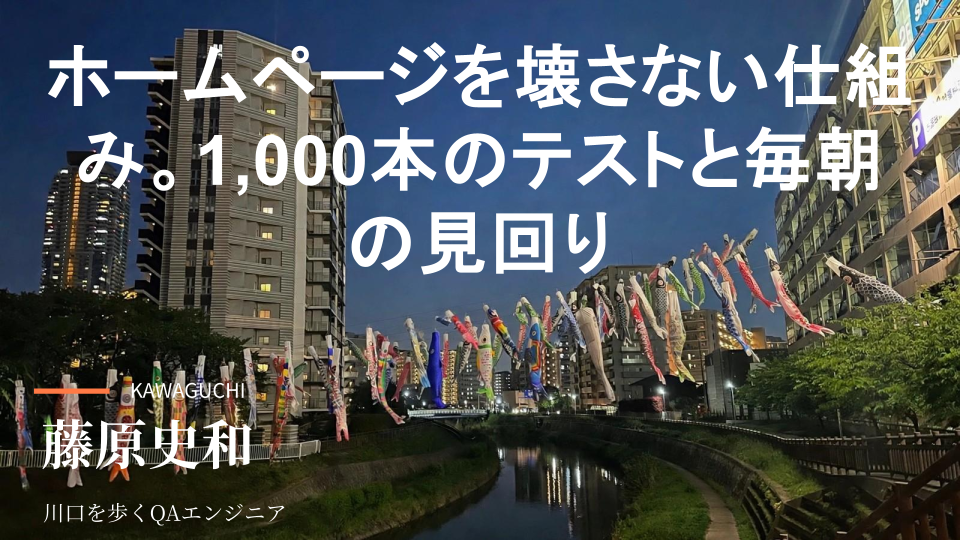
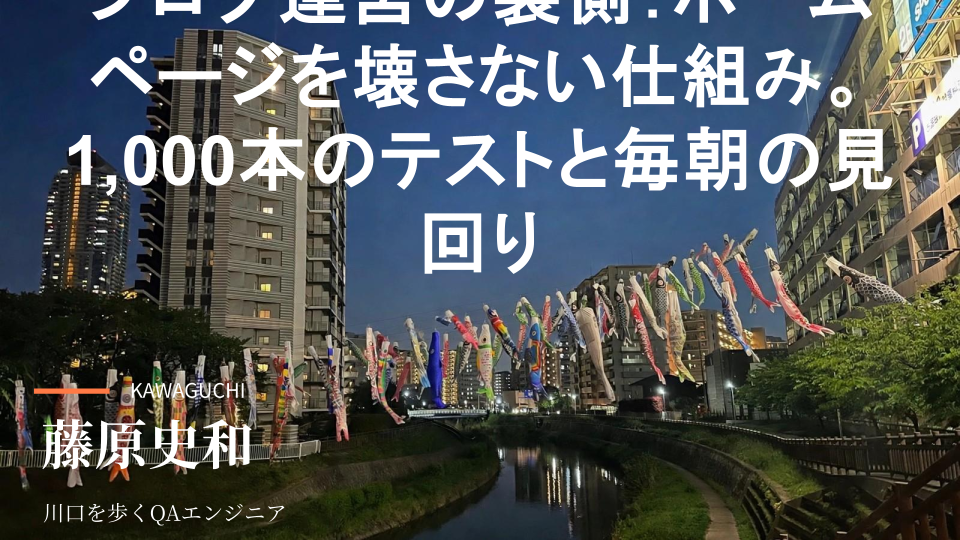
deploy: a1a06f6cc9f0d4ce08a8c35b9ff1bdfc61419ec7

diff --git a/assets/index-DbyyQzb4.js b/assets/index-DbyyQzb4.js
@@ -14,7 +14,7 @@ var El=Object.defineProperty;var Ir=e=>{throw TypeError(e)};var Rl=(e,t,n)=>t in
 * @vue/runtime-dom v3.5.27
 * (c) 2018-present Yuxi (Evan) You and Vue contributors
 * @license MIT
-**/let Ks;const Qr=typeof window<"u"&&window.trustedTypes;if(Qr)try{Ks=Qr.createPolicy("vue",{createHTML:e=>e})}catch{}const Vo=Ks?e=>Ks.createHTML(e):e=>e,wa="http://www.w3.org/2000/svg",ka="http://www.w3.org/1998/Math/MathML",at=typeof document<"u"?document:null,Zr=at&&at.createElement("template"),Ea={insert:(e,t,n)=>{t.insertBefore(e,n||null)},remove:e=>{const t=e.parentNode;t&&t.removeChild(e)},createElement:(e,t,n,s)=>{const r=t==="svg"?at.createElementNS(wa,e):t==="mathml"?at.createElementNS(ka,e):n?at.createElement(e,{is:n}):at.createElement(e);return e==="select"&&s&&s.multiple!=null&&r.setAttribute("multiple",s.multiple),r},createText:e=>at.createTextNode(e),createComment:e=>at.createComment(e),setText:(e,t)=>{e.nodeValue=t},setElementText:(e,t)=>{e.textContent=t},parentNode:e=>e.parentNode,nextSibling:e=>e.nextSibling,querySelector:e=>at.querySelector(e),setScopeId(e,t){e.setAttribute(t,"")},insertStaticContent(e,t,n,s,r,i){const o=n?n.previousSibling:t.lastChild;if(r&&(r===i||r.nextSibling))for(;t.insertBefore(r.cloneNode(!0),n),!(r===i||!(r=r.nextSibling)););else{Zr.innerHTML=Vo(s==="svg"?`<svg>${e}</svg>`:s==="mathml"?`<math>${e}</math>`:e);const l=Zr.content;if(s==="svg"||s==="mathml"){const c=l.firstChild;for(;c.firstChild;)l.appendChild(c.firstChild);l.removeChild(c)}t.insertBefore(l,n)}return[o?o.nextSibling:t.firstChild,n?n.previousSibling:t.lastChild]}},Ra=Symbol("_vtc");function Aa(e,t,n){const s=e[Ra];s&&(t=(t?[t,...s]:[...s]).join(" ")),t==null?e.removeAttribute("class"):n?e.setAttribute("class",t):e.className=t}const Jr=Symbol("_vod"),Sa=Symbol("_vsh"),Ta=Symbol(""),Ca=/(?:^|;)\s*display\s*:/;function Ia(e,t,n){const s=e.style,r=ge(n);let i=!1;if(n&&!r){if(t)if(ge(t))for(const o of t.split(";")){const l=o.slice(0,o.indexOf(":")).trim();n[l]==null&&Hn(s,l,"")}else for(const o in t)n[o]==null&&Hn(s,o,"");for(const o in n)o==="display"&&(i=!0),Hn(s,o,n[o])}else if(r){if(t!==n){const o=s[Ta];o&&(n+=";"+o),s.cssText=n,i=Ca.test(n)}}else t&&e.removeAttribute("style");Jr in e&&(e[Jr]=i?s.display:"",e[Sa]&&(s.display="none"))}const Yr=/\s*!important$/;function Hn(e,t,n){if(H(n))n.forEach(s=>Hn(e,t,s));else if(n==null&&(n=""),t.startsWith("--"))e.setProperty(t,n);else{const s=Oa(e,t);Yr.test(n)?e.setProperty(Mt(s),n.replace(Yr,""),"important"):e[s]=n}}const Xr=["Webkit","Moz","ms"],Es={};function Oa(e,t){const n=Es[t];if(n)return n;let s=ze(t);if(s!=="filter"&&s in e)return Es[t]=s;s=ts(s);for(let r=0;r<Xr.length;r++){const i=Xr[r]+s;if(i in e)return Es[t]=i}return t}const ei="http://www.w3.org/1999/xlink";function ti(e,t,n,s,r,i=Ml(t)){s&&t.startsWith("xlink:")?n==null?e.removeAttributeNS(ei,t.slice(6,t.length)):e.setAttributeNS(ei,t,n):n==null||i&&!Ui(n)?e.removeAttribute(t):e.setAttribute(t,i?"":At(n)?String(n):n)}function ni(e,t,n,s,r){if(t==="innerHTML"||t==="textContent"){n!=null&&(e[t]=t==="innerHTML"?Vo(n):n);return}const i=e.tagName;if(t==="value"&&i!=="PROGRESS"&&!i.includes("-")){const l=i==="OPTION"?e.getAttribute("value")||"":e.value,c=n==null?e.type==="checkbox"?"on":"":String(n);(l!==c||!("_value"in e))&&(e.value=c),n==null&&e.removeAttribute(t),e._value=n;return}let o=!1;if(n===""||n==null){const l=typeof e[t];l==="boolean"?n=Ui(n):n==null&&l==="string"?(n="",o=!0):l==="number"&&(n=0,o=!0)}try{e[t]=n}catch{}o&&e.removeAttribute(r||t)}function Ut(e,t,n,s){e.addEventListener(t,n,s)}function Pa(e,t,n,s){e.removeEventListener(t,n,s)}const si=Symbol("_vei");function $a(e,t,n,s,r=null){const i=e[si]||(e[si]={}),o=i[t];if(s&&o)o.value=s;else{const[l,c]=Na(t);if(s){const f=i[t]=Da(s,r);Ut(e,l,f,c)}else o&&(Pa(e,l,o,c),i[t]=void 0)}}const ri=/(?:Once|Passive|Capture)$/;function Na(e){let t;if(ri.test(e)){t={};let s;for(;s=e.match(ri);)e=e.slice(0,e.length-s[0].length),t[s[0].toLowerCase()]=!0}return[e[2]===":"?e.slice(3):Mt(e.slice(2)),t]}let Rs=0;const La=Promise.resolve(),Ma=()=>Rs||(La.then(()=>Rs=0),Rs=Date.now());function Da(e,t){const n=s=>{if(!s._vts)s._vts=Date.now();else if(s._vts<=n.attached)return;rt(Ba(s,n.value),t,5,[s])};return n.value=e,n.attached=Ma(),n}function Ba(e,t){if(H(t)){const n=e.stopImmediatePropagation;return e.stopImmediatePropagation=()=>{n.call(e),e._stopped=!0},t.map(s=>r=>!r._stopped&&s&&s(r))}else return t}const ii=e=>e.charCodeAt(0)===111&&e.charCodeAt(1)===110&&e.charCodeAt(2)>96&&e.charCodeAt(2)<123,Fa=(e,t,n,s,r,i)=>{const o=r==="svg";t==="class"?Aa(e,s,o):t==="style"?Ia(e,n,s):Yn(t)?er(t)||$a(e,t,n,s,i):(t[0]==="."?(t=t.slice(1),!0):t[0]==="^"?(t=t.slice(1),!1):Ha(e,t,s,o))?(ni(e,t,s),!e.tagName.includes("-")&&(t==="value"||t==="checked"||t==="selected")&&ti(e,t,s,o,i,t!=="value")):e._isVueCE&&(/[A-Z]/.test(t)||!ge(s))?ni(e,ze(t),s,i,t):(t==="true-value"?e._trueValue=s:t==="false-value"&&(e._falseValue=s),ti(e,t,s,o))};function Ha(e,t,n,s){if(s)return!!(t==="innerHTML"||t==="textContent"||t in e&&ii(t)&&z(n));if(t==="spellcheck"||t==="draggable"||t==="translate"||t==="autocorrect"||t==="sandbox"&&e.tagName==="IFRAME"||t==="form"||t==="list"&&e.tagName==="INPUT"||t==="type"&&e.tagName==="TEXTAREA")return!1;if(t==="width"||t==="height"){const r=e.tagName;if(r==="IMG"||r==="VIDEO"||r==="CANVAS"||r==="SOURCE")return!1}return ii(t)&&ge(n)?!1:t in e}const oi=e=>{const t=e.props["onUpdate:modelValue"]||!1;return H(t)?n=>Mn(t,n):t};function ja(e){e.target.composing=!0}function li(e){const t=e.target;t.composing&&(t.composing=!1,t.dispatchEvent(new Event("input")))}const As=Symbol("_assign");function ci(e,t,n){return t&&(e=e.trim()),n&&(e=sr(e)),e}const za={created(e,{modifiers:{lazy:t,trim:n,number:s}},r){e[As]=oi(r);const i=s||r.props&&r.props.type==="number";Ut(e,t?"change":"input",o=>{o.target.composing||e[As](ci(e.value,n,i))}),(n||i)&&Ut(e,"change",()=>{e.value=ci(e.value,n,i)}),t||(Ut(e,"compositionstart",ja),Ut(e,"compositionend",li),Ut(e,"change",li))},mounted(e,{value:t}){e.value=t??""},beforeUpdate(e,{value:t,oldValue:n,modifiers:{lazy:s,trim:r,number:i}},o){if(e[As]=oi(o),e.composing)return;const l=(i||e.type==="number")&&!/^0\d/.test(e.value)?sr(e.value):e.value,c=t??"";l!==c&&(document.activeElement===e&&e.type!=="range"&&(s&&t===n||r&&e.value.trim()===c)||(e.value=c))}},Ua=["ctrl","shift","alt","meta"],Va={stop:e=>e.stopPropagation(),prevent:e=>e.preventDefault(),self:e=>e.target!==e.currentTarget,ctrl:e=>!e.ctrlKey,shift:e=>!e.shiftKey,alt:e=>!e.altKey,meta:e=>!e.metaKey,left:e=>"button"in e&&e.button!==0,middle:e=>"button"in e&&e.button!==1,right:e=>"button"in e&&e.button!==2,exact:(e,t)=>Ua.some(n=>e[`${n}Key`]&&!t.includes(n))},Ga=(e,t)=>{const n=e._withMods||(e._withMods={}),s=t.join(".");return n[s]||(n[s]=(r,...i)=>{for(let o=0;o<t.length;o++){const l=Va[t[o]];if(l&&l(r,t))return}return e(r,...i)})},Ka=xe({patchProp:Fa},Ea);let ai;function Wa(){return ai||(ai=na(Ka))}const qa=(...e)=>{const t=Wa().createApp(...e),{mount:n}=t;return t.mount=s=>{const r=Za(s);if(!r)return;const i=t._component;!z(i)&&!i.render&&!i.template&&(i.template=r.innerHTML),r.nodeType===1&&(r.textContent="");const o=n(r,!1,Qa(r));return r instanceof Element&&(r.removeAttribute("v-cloak"),r.setAttribute("data-v-app","")),o},t};function Qa(e){if(e instanceof SVGElement)return"svg";if(typeof MathMLElement=="function"&&e instanceof MathMLElement)return"mathml"}function Za(e){return ge(e)?document.querySelector(e):e}const Ja={class:"title-search"},Ya={key:0,class:"title-search-results"},Xa={key:0,class:"title-search-status"},eu={key:1,class:"title-search-status"},tu={key:0,class:"title-search-empty"},nu=10,ui={__name:"TitleSearch",props:{articles:{type:Array,default:()=>[]},state:{type:String,default:"ready"}},setup(e){const t=e,n=Se(""),s=he(()=>{const r=n.value.trim().toLowerCase();return r?t.articles.filter(i=>i.title.toLowerCase().includes(r)).slice(0,nu):[]});return(r,i)=>{const o=wn("router-link");return U(),oe("div",Ja,[dc(j("input",{"onUpdate:modelValue":i[0]||(i[0]=l=>n.value=l),type:"search",class:"title-search-input",placeholder:"記事タイトルで探す","aria-label":"記事タイトルで探す"},null,512),[[za,n.value]]),n.value.trim()?(U(),oe("ul",Ya,[e.state==="loading"?(U(),oe("li",Xa,[...i[2]||(i[2]=[j("span",{class:"title-search-spinner","aria-hidden":"true"},null,-1),Et("検索中… ",-1)])])):e.state==="failed"?(U(),oe("li",eu,"読み込みに失敗しました。再読み込みしてください")):(U(),oe(we,{key:2},[(U(!0),oe(we,null,dr(s.value,l=>(U(),oe("li",{key:l.id,class:"title-search-item"},[pe(o,{to:`/${l.id}`,onClick:i[1]||(i[1]=c=>n.value="")},{default:Zt(()=>[Et(Ge(l.title),1)]),_:2},1032,["to"])]))),128)),s.value.length===0?(U(),oe("li",tu,"該当する記事がありません")):$e("",!0)],64))])):$e("",!0)])}}},fs="https://script.google.com/macros/s/AKfycbydcnw4yt5K8lz8Wf0PCbG6Q9yD3jf1W2lsGucOor2KII7duJr7qevcMiwNHJTe8GZH/exec",Go=`${fs}?o=rss`,Ko={BASE_URL:"/blog/",DEV:!1,MODE:"production",PROD:!0,SSR:!1};function hs(e=Ko){return(e==null?void 0:e.VITE_STAGING)==="1"}const su=[["トップ","/staging/"],["ブログ","/blog/staging/"],["持ち物","/list-of-stuff/staging/"],["ツイート","/tweet/staging/"],["アラーム","/alarm/staging/"],["健康","/health/staging/"],["資産","/asset/staging/"]];function ru(e=Ko){const t=(e==null?void 0:e.BASE_URL)??"/";return t.endsWith("staging/")?t.slice(0,-8):t}function iu(e=document){const t=e.createElement("div");t.setAttribute("style","background:#f7e9e2;color:#8f2a12;text-align:center;font-size:12px;line-height:2.2;letter-spacing:.06em;");const n=e.createElement("span");n.textContent="STAGING ― これはステージング環境です（本番ではありません）｜ ",t.appendChild(n),su.forEach(([r,i],o)=>{o>0&&t.appendChild(e.createTextNode(" ・ "));const l=e.createElement("a");l.href=i,l.textContent=r,l.setAttribute("style","color:#8f2a12;"),t.appendChild(l)}),t.appendChild(e.createTextNode("｜ "));const s=e.createElement("a");return s.href=ru(),s.textContent="本番",s.setAttribute("style","color:#c62828;font-weight:700;"),t.appendChild(s),e.body.prepend(t),t}const ps=e=>hs()?fetch(e,{cache:"no-store"}):fetch(e),ou=async()=>{const e=await ps(Go);if(!e.ok)throw new Error("RSSの取得に失敗しました。");return await e.text()},Ss=async e=>{const t=await ps(`${fs}?id=${e}`);if(!t.ok)throw new Error("記事の取得に失敗しました。");return await t.json()},fi=e=>{if(!e||!Array.isArray(e.ids))return[];const t=e.titles&&typeof e.titles=="object"&&!Array.isArray(e.titles)?e.titles:{},n={};return Array.isArray(e.article_cache)&&e.article_cache.forEach(s=>{s!=null&&s.id&&(s!=null&&s.title)&&(n[s.id]=s.title)}),e.ids.map(s=>({id:s,title:t[s]||n[s]||""})).filter(s=>s.title)},Wo=async()=>{var n;const e=await ps(`${fs}?o=titles`);if(!e.ok)throw new Error("記事タイトル一覧の取得に失敗しました。");const t=await e.json();if(!((n=t==null?void 0:t.ids)!=null&&n.length))throw new Error("最新記事が見つかりませんでした。");return t},Ts=async()=>{var n;const e=await ps(fs);if(!e.ok)throw new Error("記事一覧の取得に失敗しました。");const t=await e.json();if(!((n=t==null?void 0:t.ids)!=null&&n.length))throw new Error("最新記事が見つかりませんでした。");return t},qo=hs(),Qo=hs()?"blog:list-cache:v1:staging":"blog:list-cache:v1",Zo=e=>!!e&&typeof e=="object"&&!Array.isArray(e),Jo=()=>{if(qo)return null;try{const e=localStorage.getItem(Qo);if(!e)return null;const t=JSON.parse(e);return!t||!Array.isArray(t.ids)||t.ids.length===0?null:{ids:t.ids,titles:Zo(t.titles)?t.titles:{},article_cache:Array.isArray(t.article_cache)?t.article_cache:[]}}catch{return null}},Cs=e=>{if(!qo)try{localStorage.setItem(Qo,JSON.stringify({ids:e.ids,titles:Zo(e.titles)?e.titles:{},article_cache:Array.isArray(e.article_cache)?e.article_cache:[]}))}catch{}},lu={class:"site-nav"},cu={class:"nav-search"},au={class:"header hero"},uu={key:1,class:"hero-inner"},fu={class:"hero-search"},hu={class:"layout"},pu={class:"site-footer"},du={class:"copy"},gu={__name:"App",setup(e){const t=new Date().getFullYear(),n=Se(""),s=Se([]),r=Se("loading");return ls(async()=>{var o,l;const i=Jo();(o=i==null?void 0:i.ids)!=null&&o.length&&(n.value=`/${i.ids[0]}`,s.value=fi(i),s.value.length&&(r.value="ready"));try{const c=await Wo();(l=c==null?void 0:c.ids)!=null&&l[0]&&(n.value=`/${c.ids[0]}`),s.value=fi(c),r.value="ready"}catch{s.value.length||(r.value="failed")}}),(i,o)=>{const l=wn("router-link"),c=wn("router-view");return U(),oe("div",null,[j("nav",lu,[o[0]||(o[0]=Kr('<a class="brand" href="https://freddiefujiwara.com/">藤原史和｜川口を歩くQAエンジニア</a><ul><li><a href="https://freddiefujiwara.com/">トップ</a></li><li><a href="https://freddiefujiwara.com/#about">プロフィール</a></li><li><a href="https://freddiefujiwara.com/#activity">活動・発信</a></li><li><a href="https://freddiefujiwara.com/#contact">情報交換</a></li><li><a href="/blog/" class="active" aria-current="page">ブログ</a></li><li><a href="https://freddiefujiwara.com/list-of-stuff/">持ち物</a></li></ul>',2)),j("div",cu,[pe(ui,{articles:s.value,state:r.value},null,8,["articles","state"])])]),j("header",au,[n.value?(U(),wt(l,{key:0,to:n.value,class:"hero-inner hero-link"},{default:Zt(()=>[...o[1]||(o[1]=[j("p",{class:"hero-place"},"KAWAGUCHI — BLOG",-1),j("h1",null,[j("span",{class:"h1-name"},"藤原史和"),j("span",{class:"h1-sep","aria-hidden":"true"},"｜"),j("span",{class:"h1-role"},"川口を歩くQAエンジニア")],-1)])]),_:1},8,["to"])):(U(),oe("div",uu,[...o[2]||(o[2]=[j("p",{class:"hero-place"},"KAWAGUCHI — BLOG",-1),j("h1",null,[j("span",{class:"h1-name"},"藤原史和"),j("span",{class:"h1-sep","aria-hidden":"true"},"｜"),j("span",{class:"h1-role"},"川口を歩くQAエンジニア")],-1)])])),j("div",fu,[pe(ui,{articles:s.value,state:r.value},null,8,["articles","state"])])]),j("div",hu,[pe(c),j("footer",pu,[o[3]||(o[3]=Kr('<div class="foot-links"><a href="https://freddiefujiwara.com/" target="_blank" rel="noopener">トップ <span class="arr">↗</span></a><a href="https://freddiefujiwara.com/blog/" target="_blank" rel="noopener">ブログ <span class="arr">↗</span></a><a href="https://freddiefujiwara.com/list-of-stuff/" target="_blank" rel="noopener">持ち物 <span class="arr">↗</span></a><a href="https://www.instagram.com/freddiefujiwara" target="_blank" rel="noopener">Instagram <span class="arr">↗</span></a><a href="https://www.facebook.com/freddiefujiwara" target="_blank" rel="noopener">Facebook <span class="arr">↗</span></a><a href="https://www.google.com/maps/contrib/105456242747265663411/reviews" target="_blank" rel="noopener">Googleマップの口コミ <span class="arr">↗</span></a><a href="https://review.travel.rakuten.co.jp/reviewer/fumikazufujiwara" target="_blank" rel="noopener">楽天トラベルの口コミ <span class="arr">↗</span></a><a href="https://tabelog.com/rvwr/zegenvs/" target="_blank" rel="noopener">食べログの口コミ <span class="arr">↗</span></a><a href="https://retty.me/user/50281/" target="_blank" rel="noopener">Rettyの口コミ <span class="arr">↗</span></a><a href="https://x.com/freddiefujiwara" target="_blank" rel="noopener">X <span class="arr">↗</span></a><a href="https://github.com/freddiefujiwara" target="_blank" rel="noopener">GitHub <span class="arr">↗</span></a><a href="https://linkedin.com/in/freddiefujiwara" target="_blank" rel="noopener">LinkedIn <span class="arr">↗</span></a></div>',1)),j("p",du,"© "+Ge(te(t))+" 藤原史和（Fumikazu Fujiwara）— freddiefujiwara.com",1)])])])}}};/*!
+**/let Ks;const Qr=typeof window<"u"&&window.trustedTypes;if(Qr)try{Ks=Qr.createPolicy("vue",{createHTML:e=>e})}catch{}const Vo=Ks?e=>Ks.createHTML(e):e=>e,wa="http://www.w3.org/2000/svg",ka="http://www.w3.org/1998/Math/MathML",at=typeof document<"u"?document:null,Zr=at&&at.createElement("template"),Ea={insert:(e,t,n)=>{t.insertBefore(e,n||null)},remove:e=>{const t=e.parentNode;t&&t.removeChild(e)},createElement:(e,t,n,s)=>{const r=t==="svg"?at.createElementNS(wa,e):t==="mathml"?at.createElementNS(ka,e):n?at.createElement(e,{is:n}):at.createElement(e);return e==="select"&&s&&s.multiple!=null&&r.setAttribute("multiple",s.multiple),r},createText:e=>at.createTextNode(e),createComment:e=>at.createComment(e),setText:(e,t)=>{e.nodeValue=t},setElementText:(e,t)=>{e.textContent=t},parentNode:e=>e.parentNode,nextSibling:e=>e.nextSibling,querySelector:e=>at.querySelector(e),setScopeId(e,t){e.setAttribute(t,"")},insertStaticContent(e,t,n,s,r,i){const o=n?n.previousSibling:t.lastChild;if(r&&(r===i||r.nextSibling))for(;t.insertBefore(r.cloneNode(!0),n),!(r===i||!(r=r.nextSibling)););else{Zr.innerHTML=Vo(s==="svg"?`<svg>${e}</svg>`:s==="mathml"?`<math>${e}</math>`:e);const l=Zr.content;if(s==="svg"||s==="mathml"){const c=l.firstChild;for(;c.firstChild;)l.appendChild(c.firstChild);l.removeChild(c)}t.insertBefore(l,n)}return[o?o.nextSibling:t.firstChild,n?n.previousSibling:t.lastChild]}},Ra=Symbol("_vtc");function Aa(e,t,n){const s=e[Ra];s&&(t=(t?[t,...s]:[...s]).join(" ")),t==null?e.removeAttribute("class"):n?e.setAttribute("class",t):e.className=t}const Jr=Symbol("_vod"),Sa=Symbol("_vsh"),Ta=Symbol(""),Ca=/(?:^|;)\s*display\s*:/;function Ia(e,t,n){const s=e.style,r=ge(n);let i=!1;if(n&&!r){if(t)if(ge(t))for(const o of t.split(";")){const l=o.slice(0,o.indexOf(":")).trim();n[l]==null&&Hn(s,l,"")}else for(const o in t)n[o]==null&&Hn(s,o,"");for(const o in n)o==="display"&&(i=!0),Hn(s,o,n[o])}else if(r){if(t!==n){const o=s[Ta];o&&(n+=";"+o),s.cssText=n,i=Ca.test(n)}}else t&&e.removeAttribute("style");Jr in e&&(e[Jr]=i?s.display:"",e[Sa]&&(s.display="none"))}const Yr=/\s*!important$/;function Hn(e,t,n){if(H(n))n.forEach(s=>Hn(e,t,s));else if(n==null&&(n=""),t.startsWith("--"))e.setProperty(t,n);else{const s=Oa(e,t);Yr.test(n)?e.setProperty(Mt(s),n.replace(Yr,""),"important"):e[s]=n}}const Xr=["Webkit","Moz","ms"],Es={};function Oa(e,t){const n=Es[t];if(n)return n;let s=ze(t);if(s!=="filter"&&s in e)return Es[t]=s;s=ts(s);for(let r=0;r<Xr.length;r++){const i=Xr[r]+s;if(i in e)return Es[t]=i}return t}const ei="http://www.w3.org/1999/xlink";function ti(e,t,n,s,r,i=Ml(t)){s&&t.startsWith("xlink:")?n==null?e.removeAttributeNS(ei,t.slice(6,t.length)):e.setAttributeNS(ei,t,n):n==null||i&&!Ui(n)?e.removeAttribute(t):e.setAttribute(t,i?"":At(n)?String(n):n)}function ni(e,t,n,s,r){if(t==="innerHTML"||t==="textContent"){n!=null&&(e[t]=t==="innerHTML"?Vo(n):n);return}const i=e.tagName;if(t==="value"&&i!=="PROGRESS"&&!i.includes("-")){const l=i==="OPTION"?e.getAttribute("value")||"":e.value,c=n==null?e.type==="checkbox"?"on":"":String(n);(l!==c||!("_value"in e))&&(e.value=c),n==null&&e.removeAttribute(t),e._value=n;return}let o=!1;if(n===""||n==null){const l=typeof e[t];l==="boolean"?n=Ui(n):n==null&&l==="string"?(n="",o=!0):l==="number"&&(n=0,o=!0)}try{e[t]=n}catch{}o&&e.removeAttribute(r||t)}function Ut(e,t,n,s){e.addEventListener(t,n,s)}function Pa(e,t,n,s){e.removeEventListener(t,n,s)}const si=Symbol("_vei");function $a(e,t,n,s,r=null){const i=e[si]||(e[si]={}),o=i[t];if(s&&o)o.value=s;else{const[l,c]=Na(t);if(s){const f=i[t]=Da(s,r);Ut(e,l,f,c)}else o&&(Pa(e,l,o,c),i[t]=void 0)}}const ri=/(?:Once|Passive|Capture)$/;function Na(e){let t;if(ri.test(e)){t={};let s;for(;s=e.match(ri);)e=e.slice(0,e.length-s[0].length),t[s[0].toLowerCase()]=!0}return[e[2]===":"?e.slice(3):Mt(e.slice(2)),t]}let Rs=0;const La=Promise.resolve(),Ma=()=>Rs||(La.then(()=>Rs=0),Rs=Date.now());function Da(e,t){const n=s=>{if(!s._vts)s._vts=Date.now();else if(s._vts<=n.attached)return;rt(Ba(s,n.value),t,5,[s])};return n.value=e,n.attached=Ma(),n}function Ba(e,t){if(H(t)){const n=e.stopImmediatePropagation;return e.stopImmediatePropagation=()=>{n.call(e),e._stopped=!0},t.map(s=>r=>!r._stopped&&s&&s(r))}else return t}const ii=e=>e.charCodeAt(0)===111&&e.charCodeAt(1)===110&&e.charCodeAt(2)>96&&e.charCodeAt(2)<123,Fa=(e,t,n,s,r,i)=>{const o=r==="svg";t==="class"?Aa(e,s,o):t==="style"?Ia(e,n,s):Yn(t)?er(t)||$a(e,t,n,s,i):(t[0]==="."?(t=t.slice(1),!0):t[0]==="^"?(t=t.slice(1),!1):Ha(e,t,s,o))?(ni(e,t,s),!e.tagName.includes("-")&&(t==="value"||t==="checked"||t==="selected")&&ti(e,t,s,o,i,t!=="value")):e._isVueCE&&(/[A-Z]/.test(t)||!ge(s))?ni(e,ze(t),s,i,t):(t==="true-value"?e._trueValue=s:t==="false-value"&&(e._falseValue=s),ti(e,t,s,o))};function Ha(e,t,n,s){if(s)return!!(t==="innerHTML"||t==="textContent"||t in e&&ii(t)&&z(n));if(t==="spellcheck"||t==="draggable"||t==="translate"||t==="autocorrect"||t==="sandbox"&&e.tagName==="IFRAME"||t==="form"||t==="list"&&e.tagName==="INPUT"||t==="type"&&e.tagName==="TEXTAREA")return!1;if(t==="width"||t==="height"){const r=e.tagName;if(r==="IMG"||r==="VIDEO"||r==="CANVAS"||r==="SOURCE")return!1}return ii(t)&&ge(n)?!1:t in e}const oi=e=>{const t=e.props["onUpdate:modelValue"]||!1;return H(t)?n=>Mn(t,n):t};function ja(e){e.target.composing=!0}function li(e){const t=e.target;t.composing&&(t.composing=!1,t.dispatchEvent(new Event("input")))}const As=Symbol("_assign");function ci(e,t,n){return t&&(e=e.trim()),n&&(e=sr(e)),e}const za={created(e,{modifiers:{lazy:t,trim:n,number:s}},r){e[As]=oi(r);const i=s||r.props&&r.props.type==="number";Ut(e,t?"change":"input",o=>{o.target.composing||e[As](ci(e.value,n,i))}),(n||i)&&Ut(e,"change",()=>{e.value=ci(e.value,n,i)}),t||(Ut(e,"compositionstart",ja),Ut(e,"compositionend",li),Ut(e,"change",li))},mounted(e,{value:t}){e.value=t??""},beforeUpdate(e,{value:t,oldValue:n,modifiers:{lazy:s,trim:r,number:i}},o){if(e[As]=oi(o),e.composing)return;const l=(i||e.type==="number")&&!/^0\d/.test(e.value)?sr(e.value):e.value,c=t??"";l!==c&&(document.activeElement===e&&e.type!=="range"&&(s&&t===n||r&&e.value.trim()===c)||(e.value=c))}},Ua=["ctrl","shift","alt","meta"],Va={stop:e=>e.stopPropagation(),prevent:e=>e.preventDefault(),self:e=>e.target!==e.currentTarget,ctrl:e=>!e.ctrlKey,shift:e=>!e.shiftKey,alt:e=>!e.altKey,meta:e=>!e.metaKey,left:e=>"button"in e&&e.button!==0,middle:e=>"button"in e&&e.button!==1,right:e=>"button"in e&&e.button!==2,exact:(e,t)=>Ua.some(n=>e[`${n}Key`]&&!t.includes(n))},Ga=(e,t)=>{const n=e._withMods||(e._withMods={}),s=t.join(".");return n[s]||(n[s]=(r,...i)=>{for(let o=0;o<t.length;o++){const l=Va[t[o]];if(l&&l(r,t))return}return e(r,...i)})},Ka=xe({patchProp:Fa},Ea);let ai;function Wa(){return ai||(ai=na(Ka))}const qa=(...e)=>{const t=Wa().createApp(...e),{mount:n}=t;return t.mount=s=>{const r=Za(s);if(!r)return;const i=t._component;!z(i)&&!i.render&&!i.template&&(i.template=r.innerHTML),r.nodeType===1&&(r.textContent="");const o=n(r,!1,Qa(r));return r instanceof Element&&(r.removeAttribute("v-cloak"),r.setAttribute("data-v-app","")),o},t};function Qa(e){if(e instanceof SVGElement)return"svg";if(typeof MathMLElement=="function"&&e instanceof MathMLElement)return"mathml"}function Za(e){return ge(e)?document.querySelector(e):e}const Ja={class:"title-search"},Ya={key:0,class:"title-search-results"},Xa={key:0,class:"title-search-status"},eu={key:1,class:"title-search-status"},tu={key:0,class:"title-search-empty"},nu=10,ui={__name:"TitleSearch",props:{articles:{type:Array,default:()=>[]},state:{type:String,default:"ready"}},setup(e){const t=e,n=Se(""),s=he(()=>{const r=n.value.trim().toLowerCase();return r?t.articles.filter(i=>i.title.toLowerCase().includes(r)).slice(0,nu):[]});return(r,i)=>{const o=wn("router-link");return U(),oe("div",Ja,[dc(j("input",{"onUpdate:modelValue":i[0]||(i[0]=l=>n.value=l),type:"search",class:"title-search-input",placeholder:"記事タイトルで探す","aria-label":"記事タイトルで探す"},null,512),[[za,n.value]]),n.value.trim()?(U(),oe("ul",Ya,[e.state==="loading"?(U(),oe("li",Xa,[...i[2]||(i[2]=[j("span",{class:"title-search-spinner","aria-hidden":"true"},null,-1),Et("検索中… ",-1)])])):e.state==="failed"?(U(),oe("li",eu,"読み込みに失敗しました。再読み込みしてください")):(U(),oe(we,{key:2},[(U(!0),oe(we,null,dr(s.value,l=>(U(),oe("li",{key:l.id,class:"title-search-item"},[pe(o,{to:`/${l.id}`,onClick:i[1]||(i[1]=c=>n.value="")},{default:Zt(()=>[Et(Ge(l.title),1)]),_:2},1032,["to"])]))),128)),s.value.length===0?(U(),oe("li",tu,"該当する記事がありません")):$e("",!0)],64))])):$e("",!0)])}}},fs="https://script.google.com/macros/s/AKfycbydcnw4yt5K8lz8Wf0PCbG6Q9yD3jf1W2lsGucOor2KII7duJr7qevcMiwNHJTe8GZH/exec",Go=`${fs}?o=rss`,Ko={BASE_URL:"/blog/",DEV:!1,MODE:"production",PROD:!0,SSR:!1};function hs(e=Ko){return(e==null?void 0:e.VITE_STAGING)==="1"}const su=[["トップ","/staging/"],["ブログ","/blog/staging/"],["持ち物","/list-of-stuff/staging/"],["ツイート","/tweet/staging/"],["アラーム","/alarm/staging/"],["健康","/health/staging/"],["資産","/asset/staging/"],["GA","/ga/staging/"]];function ru(e=Ko){const t=(e==null?void 0:e.BASE_URL)??"/";return t.endsWith("staging/")?t.slice(0,-8):t}function iu(e=document){const t=e.createElement("div");t.setAttribute("style","background:#f7e9e2;color:#8f2a12;text-align:center;font-size:12px;line-height:2.2;letter-spacing:.06em;");const n=e.createElement("span");n.textContent="STAGING｜",t.appendChild(n),su.forEach(([r,i],o)=>{o>0&&t.appendChild(e.createTextNode(" ・ "));const l=e.createElement("a");l.href=i,l.textContent=r,l.setAttribute("style","color:#8f2a12;"),t.appendChild(l)}),t.appendChild(e.createTextNode("｜ "));const s=e.createElement("a");return s.href=ru(),s.textContent="本番",s.setAttribute("style","color:#c62828;font-weight:700;"),t.appendChild(s),e.body.prepend(t),t}const ps=e=>hs()?fetch(e,{cache:"no-store"}):fetch(e),ou=async()=>{const e=await ps(Go);if(!e.ok)throw new Error("RSSの取得に失敗しました。");return await e.text()},Ss=async e=>{const t=await ps(`${fs}?id=${e}`);if(!t.ok)throw new Error("記事の取得に失敗しました。");return await t.json()},fi=e=>{if(!e||!Array.isArray(e.ids))return[];const t=e.titles&&typeof e.titles=="object"&&!Array.isArray(e.titles)?e.titles:{},n={};return Array.isArray(e.article_cache)&&e.article_cache.forEach(s=>{s!=null&&s.id&&(s!=null&&s.title)&&(n[s.id]=s.title)}),e.ids.map(s=>({id:s,title:t[s]||n[s]||""})).filter(s=>s.title)},Wo=async()=>{var n;const e=await ps(`${fs}?o=titles`);if(!e.ok)throw new Error("記事タイトル一覧の取得に失敗しました。");const t=await e.json();if(!((n=t==null?void 0:t.ids)!=null&&n.length))throw new Error("最新記事が見つかりませんでした。");return t},Ts=async()=>{var n;const e=await ps(fs);if(!e.ok)throw new Error("記事一覧の取得に失敗しました。");const t=await e.json();if(!((n=t==null?void 0:t.ids)!=null&&n.length))throw new Error("最新記事が見つかりませんでした。");return t},qo=hs(),Qo=hs()?"blog:list-cache:v1:staging":"blog:list-cache:v1",Zo=e=>!!e&&typeof e=="object"&&!Array.isArray(e),Jo=()=>{if(qo)return null;try{const e=localStorage.getItem(Qo);if(!e)return null;const t=JSON.parse(e);return!t||!Array.isArray(t.ids)||t.ids.length===0?null:{ids:t.ids,titles:Zo(t.titles)?t.titles:{},article_cache:Array.isArray(t.article_cache)?t.article_cache:[]}}catch{return null}},Cs=e=>{if(!qo)try{localStorage.setItem(Qo,JSON.stringify({ids:e.ids,titles:Zo(e.titles)?e.titles:{},article_cache:Array.isArray(e.article_cache)?e.article_cache:[]}))}catch{}},lu={class:"site-nav"},cu={class:"nav-search"},au={class:"header hero"},uu={key:1,class:"hero-inner"},fu={class:"hero-search"},hu={class:"layout"},pu={class:"site-footer"},du={class:"copy"},gu={__name:"App",setup(e){const t=new Date().getFullYear(),n=Se(""),s=Se([]),r=Se("loading");return ls(async()=>{var o,l;const i=Jo();(o=i==null?void 0:i.ids)!=null&&o.length&&(n.value=`/${i.ids[0]}`,s.value=fi(i),s.value.length&&(r.value="ready"));try{const c=await Wo();(l=c==null?void 0:c.ids)!=null&&l[0]&&(n.value=`/${c.ids[0]}`),s.value=fi(c),r.value="ready"}catch{s.value.length||(r.value="failed")}}),(i,o)=>{const l=wn("router-link"),c=wn("router-view");return U(),oe("div",null,[j("nav",lu,[o[0]||(o[0]=Kr('<a class="brand" href="https://freddiefujiwara.com/">藤原史和｜川口を歩くQAエンジニア</a><ul><li><a href="https://freddiefujiwara.com/">トップ</a></li><li><a href="https://freddiefujiwara.com/#about">プロフィール</a></li><li><a href="https://freddiefujiwara.com/#activity">活動・発信</a></li><li><a href="https://freddiefujiwara.com/#contact">情報交換</a></li><li><a href="/blog/" class="active" aria-current="page">ブログ</a></li><li><a href="https://freddiefujiwara.com/list-of-stuff/">持ち物</a></li></ul>',2)),j("div",cu,[pe(ui,{articles:s.value,state:r.value},null,8,["articles","state"])])]),j("header",au,[n.value?(U(),wt(l,{key:0,to:n.value,class:"hero-inner hero-link"},{default:Zt(()=>[...o[1]||(o[1]=[j("p",{class:"hero-place"},"KAWAGUCHI — BLOG",-1),j("h1",null,[j("span",{class:"h1-name"},"藤原史和"),j("span",{class:"h1-sep","aria-hidden":"true"},"｜"),j("span",{class:"h1-role"},"川口を歩くQAエンジニア")],-1)])]),_:1},8,["to"])):(U(),oe("div",uu,[...o[2]||(o[2]=[j("p",{class:"hero-place"},"KAWAGUCHI — BLOG",-1),j("h1",null,[j("span",{class:"h1-name"},"藤原史和"),j("span",{class:"h1-sep","aria-hidden":"true"},"｜"),j("span",{class:"h1-role"},"川口を歩くQAエンジニア")],-1)])])),j("div",fu,[pe(ui,{articles:s.value,state:r.value},null,8,["articles","state"])])]),j("div",hu,[pe(c),j("footer",pu,[o[3]||(o[3]=Kr('<div class="foot-links"><a href="https://freddiefujiwara.com/" target="_blank" rel="noopener">トップ <span class="arr">↗</span></a><a href="https://freddiefujiwara.com/blog/" target="_blank" rel="noopener">ブログ <span class="arr">↗</span></a><a href="https://freddiefujiwara.com/list-of-stuff/" target="_blank" rel="noopener">持ち物 <span class="arr">↗</span></a><a href="https://www.instagram.com/freddiefujiwara" target="_blank" rel="noopener">Instagram <span class="arr">↗</span></a><a href="https://www.facebook.com/freddiefujiwara" target="_blank" rel="noopener">Facebook <span class="arr">↗</span></a><a href="https://www.google.com/maps/contrib/105456242747265663411/reviews" target="_blank" rel="noopener">Googleマップの口コミ <span class="arr">↗</span></a><a href="https://review.travel.rakuten.co.jp/reviewer/fumikazufujiwara" target="_blank" rel="noopener">楽天トラベルの口コミ <span class="arr">↗</span></a><a href="https://tabelog.com/rvwr/zegenvs/" target="_blank" rel="noopener">食べログの口コミ <span class="arr">↗</span></a><a href="https://retty.me/user/50281/" target="_blank" rel="noopener">Rettyの口コミ <span class="arr">↗</span></a><a href="https://x.com/freddiefujiwara" target="_blank" rel="noopener">X <span class="arr">↗</span></a><a href="https://github.com/freddiefujiwara" target="_blank" rel="noopener">GitHub <span class="arr">↗</span></a><a href="https://linkedin.com/in/freddiefujiwara" target="_blank" rel="noopener">LinkedIn <span class="arr">↗</span></a></div>',1)),j("p",du,"© "+Ge(te(t))+" 藤原史和（Fumikazu Fujiwara）— freddiefujiwara.com",1)])])])}}};/*!
  * vue-router v4.6.4
  * (c) 2025 Eduardo San Martin Morote
  * @license MIT

diff --git a/1ugO7JmY8cmxQ34E9sPLrYArHHw03ZySj-PvGG5FQX-U.html b/1ugO7JmY8cmxQ34E9sPLrYArHHw03ZySj-PvGG5FQX-U.html
@@ -12,8 +12,8 @@
     <link rel="icon" type="image/png" sizes="32x32" href="/blog/favicon-32.png">
     <link rel="icon" type="image/png" sizes="16x16" href="/blog/favicon-16.png">
     <link rel="apple-touch-icon" sizes="180x180" href="/blog/apple-touch-icon.png">
-    <meta property="og:title" content="2026-11-04 ホームページを壊さない仕組み。1,000本のテストと毎朝の見回り" />
-    <meta property="og:description" content="前回の記事（ブログの裏側、数字編）では、ホームページのシステム構成を書きました。今回はその続きで、本番で起きた障害と、そこから学んで残したテストや運用の話です。 先に結論を書きます。このサイトで起きた本番障害は、思い出せる限りすべて、プログ" />
+    <meta property="og:title" content="2026-11-04 ブログ運営の裏側：ホームページを壊さない仕組み。1,000本のテストと毎朝の見回り" />
+    <meta property="og:description" content="このブログの運営の裏側の話です。 前回の記事（ブログの裏側、数字編）では、ホームページのシステム構成を書きました。今回はその続きで、本番で起きた障害と、そこから学んで残したテストや運用の話です。 先に結論を書きます。このサイトで起きた本番障" />
     <meta property="og:type" content="article" />
     <meta property="og:url" content="https://freddiefujiwara.com/blog/1ugO7JmY8cmxQ34E9sPLrYArHHw03ZySj-PvGG5FQX-U" />
     <meta property="og:image" content="https://freddiefujiwara.com/blog/ogp/1ugO7JmY8cmxQ34E9sPLrYArHHw03ZySj-PvGG5FQX-U.png" />
@@ -47,7 +47,7 @@
         }
       })();
     </script>
-    <title>2026-11-04 ホームページを壊さない仕組み。1,000本のテストと毎朝の見回り</title>
+    <title>2026-11-04 ブログ運営の裏側：ホームページを壊さない仕組み。1,000本のテストと毎朝の見回り</title>
       <!-- Google tag (gtag.js) -->
     <script async src="https://www.googletagmanager.com/gtag/js?id=G-W2C6FNCW86"></script>
     <script>
@@ -58,7 +58,7 @@
       // navigations are counted without duplicates.
       gtag('config', 'G-W2C6FNCW86', { send_page_view: false });
     </script>
-    <script type="module" crossorigin src="/blog/assets/index-B9C_2L4X.js"></script>
+    <script type="module" crossorigin src="/blog/assets/index-DbyyQzb4.js"></script>
     <link rel="stylesheet" crossorigin href="/blog/assets/index-DD-P0Kwn.css">
   </head>
   <body>

diff --git a/1zNCqYU6xAzU3hft36Eh9oemWf6rA0yl2Hu2gPf2KI_Q.html b/1zNCqYU6xAzU3hft36Eh9oemWf6rA0yl2Hu2gPf2KI_Q.html
@@ -12,8 +12,8 @@
     <link rel="icon" type="image/png" sizes="32x32" href="/blog/favicon-32.png">
     <link rel="icon" type="image/png" sizes="16x16" href="/blog/favicon-16.png">
     <link rel="apple-touch-icon" sizes="180x180" href="/blog/apple-touch-icon.png">
-    <meta property="og:title" content="2026-11-01 サーバー代ゼロ。お金をかけないホームページとブログの続け方" />
-    <meta property="og:description" content="このブログがどういう仕組みで動いているかを書いておきます。WordPressのようなCMSは使っていません。 そもそも、なるべくお金をかけずにホームページやブログを続けたい方、多いのではないでしょうか。詳しいやり方を知りたい人っているんです" />
+    <meta property="og:title" content="2026-11-01 ブログ運営の裏側：サーバー代ゼロ。お金をかけないホームページとブログの続け方" />
+    <meta property="og:description" content="このブログの運営の裏側の話です。 このブログがどういう仕組みで動いているかを書いておきます。WordPressのようなCMSは使っていません。 そもそも、なるべくお金をかけずにホームページやブログを続けたい方、多いのではないでしょうか。詳し" />
     <meta property="og:type" content="article" />
     <meta property="og:url" content="https://freddiefujiwara.com/blog/1zNCqYU6xAzU3hft36Eh9oemWf6rA0yl2Hu2gPf2KI_Q" />
     <meta property="og:image" content="https://freddiefujiwara.com/blog/ogp/1zNCqYU6xAzU3hft36Eh9oemWf6rA0yl2Hu2gPf2KI_Q.png" />
@@ -47,7 +47,7 @@
         }
       })();
     </script>
-    <title>2026-11-01 サーバー代ゼロ。お金をかけないホームページとブログの続け方</title>
+    <title>2026-11-01 ブログ運営の裏側：サーバー代ゼロ。お金をかけないホームページとブログの続け方</title>
       <!-- Google tag (gtag.js) -->
     <script async src="https://www.googletagmanager.com/gtag/js?id=G-W2C6FNCW86"></script>
     <script>
@@ -58,7 +58,7 @@
       // navigations are counted without duplicates.
       gtag('config', 'G-W2C6FNCW86', { send_page_view: false });
     </script>
-    <script type="module" crossorigin src="/blog/assets/index-B9C_2L4X.js"></script>
+    <script type="module" crossorigin src="/blog/assets/index-DbyyQzb4.js"></script>
     <link rel="stylesheet" crossorigin href="/blog/assets/index-DD-P0Kwn.css">
   </head>
   <body>

diff --git a/1tTn5go5vX3vVdWVrH3YdvbWuzUPdyG532jJpxCwQ1EA.html b/1tTn5go5vX3vVdWVrH3YdvbWuzUPdyG532jJpxCwQ1EA.html
@@ -13,7 +13,7 @@
     <link rel="icon" type="image/png" sizes="16x16" href="/blog/favicon-16.png">
     <link rel="apple-touch-icon" sizes="180x180" href="/blog/apple-touch-icon.png">
     <meta property="og:title" content="2026-11-03 ブログの裏側、数字編。どこから来て、どの記事が読まれているか" />
-    <meta property="og:description" content="このホームページとブログに、アクセスを数える仕組み（Googleアナリティクス）を入れたのが11月1日。まだ2日分ほどの数字しかありませんが、初めて「誰が、どこから来て、何を読んでくれているか」が見えたので、記録しておきます。 2日ほどの合" />
+    <meta property="og:description" content="このブログの運営の裏側の話です。 このホームページとブログに、アクセスを数える仕組み（Googleアナリティクス）を入れたのが11月1日。まだ2日分ほどの数字しかありませんが、初めて「誰が、どこから来て、何を読んでくれているか」が見えたので" />
     <meta property="og:type" content="article" />
     <meta property="og:url" content="https://freddiefujiwara.com/blog/1tTn5go5vX3vVdWVrH3YdvbWuzUPdyG532jJpxCwQ1EA" />
     <meta property="og:image" content="https://freddiefujiwara.com/blog/ogp/1tTn5go5vX3vVdWVrH3YdvbWuzUPdyG532jJpxCwQ1EA.png" />
@@ -58,7 +58,7 @@
       // navigations are counted without duplicates.
       gtag('config', 'G-W2C6FNCW86', { send_page_view: false });
     </script>
-    <script type="module" crossorigin src="/blog/assets/index-B9C_2L4X.js"></script>
+    <script type="module" crossorigin src="/blog/assets/index-DbyyQzb4.js"></script>
     <link rel="stylesheet" crossorigin href="/blog/assets/index-DD-P0Kwn.css">
   </head>
   <body>

diff --git a/10VmYdKmECQ8O1zBQwJSUq-D_P-EylzwRfN4R7EMRv6Y.html b/10VmYdKmECQ8O1zBQwJSUq-D_P-EylzwRfN4R7EMRv6Y.html
@@ -58,7 +58,7 @@
       // navigations are counted without duplicates.
       gtag('config', 'G-W2C6FNCW86', { send_page_view: false });
     </script>
-    <script type="module" crossorigin src="/blog/assets/index-B9C_2L4X.js"></script>
+    <script type="module" crossorigin src="/blog/assets/index-DbyyQzb4.js"></script>
     <link rel="stylesheet" crossorigin href="/blog/assets/index-DD-P0Kwn.css">
   </head>
   <body>

diff --git a/11-qR75CSsCbzs9uwr8o7UNKzNB0aKIv-hsl0morMaIc.html b/11-qR75CSsCbzs9uwr8o7UNKzNB0aKIv-hsl0morMaIc.html
@@ -58,7 +58,7 @@
       // navigations are counted without duplicates.
       gtag('config', 'G-W2C6FNCW86', { send_page_view: false });
     </script>
-    <script type="module" crossorigin src="/blog/assets/index-B9C_2L4X.js"></script>
+    <script type="module" crossorigin src="/blog/assets/index-DbyyQzb4.js"></script>
     <link rel="stylesheet" crossorigin href="/blog/assets/index-DD-P0Kwn.css">
   </head>
   <body>

diff --git a/117dADBZipEMhnehX1uPXELJrVn8Zto9Zd2HzEwUiIx4.html b/117dADBZipEMhnehX1uPXELJrVn8Zto9Zd2HzEwUiIx4.html
@@ -58,7 +58,7 @@
       // navigations are counted without duplicates.
       gtag('config', 'G-W2C6FNCW86', { send_page_view: false });
     </script>
-    <script type="module" crossorigin src="/blog/assets/index-B9C_2L4X.js"></script>
+    <script type="module" crossorigin src="/blog/assets/index-DbyyQzb4.js"></script>
     <link rel="stylesheet" crossorigin href="/blog/assets/index-DD-P0Kwn.css">
   </head>
   <body>

diff --git a/11l8FN2hsZPHQaEC_g3tRuC5PjXDUYfI_wbb7NqXTL-g.html b/11l8FN2hsZPHQaEC_g3tRuC5PjXDUYfI_wbb7NqXTL-g.html
@@ -58,7 +58,7 @@
       // navigations are counted without duplicates.
       gtag('config', 'G-W2C6FNCW86', { send_page_view: false });
     </script>
-    <script type="module" crossorigin src="/blog/assets/index-B9C_2L4X.js"></script>
+    <script type="module" crossorigin src="/blog/assets/index-DbyyQzb4.js"></script>
     <link rel="stylesheet" crossorigin href="/blog/assets/index-DD-P0Kwn.css">
   </head>
   <body>

diff --git a/12dm674uc1qkvb-5itpIl59aAloo7s2N3Z65uyiw4C40.html b/12dm674uc1qkvb-5itpIl59aAloo7s2N3Z65uyiw4C40.html
@@ -58,7 +58,7 @@
       // navigations are counted without duplicates.
       gtag('config', 'G-W2C6FNCW86', { send_page_view: false });
     </script>
-    <script type="module" crossorigin src="/blog/assets/index-B9C_2L4X.js"></script>
+    <script type="module" crossorigin src="/blog/assets/index-DbyyQzb4.js"></script>
     <link rel="stylesheet" crossorigin href="/blog/assets/index-DD-P0Kwn.css">
   </head>
   <body>

diff --git a/16RwJR2mNxXEQKrF8hCaXF-43E4KRLjbXdScTLG1yWoM.html b/16RwJR2mNxXEQKrF8hCaXF-43E4KRLjbXdScTLG1yWoM.html
@@ -58,7 +58,7 @@
       // navigations are counted without duplicates.
       gtag('config', 'G-W2C6FNCW86', { send_page_view: false });
     </script>
-    <script type="module" crossorigin src="/blog/assets/index-B9C_2L4X.js"></script>
+    <script type="module" crossorigin src="/blog/assets/index-DbyyQzb4.js"></script>
     <link rel="stylesheet" crossorigin href="/blog/assets/index-DD-P0Kwn.css">
   </head>
   <body>

diff --git a/1BN4Ll8GRE3Yiy1qYUizP_1xEQ78Tn8ayYonJi-eewps.html b/1BN4Ll8GRE3Yiy1qYUizP_1xEQ78Tn8ayYonJi-eewps.html
@@ -58,7 +58,7 @@
       // navigations are counted without duplicates.
       gtag('config', 'G-W2C6FNCW86', { send_page_view: false });
     </script>
-    <script type="module" crossorigin src="/blog/assets/index-B9C_2L4X.js"></script>
+    <script type="module" crossorigin src="/blog/assets/index-DbyyQzb4.js"></script>
     <link rel="stylesheet" crossorigin href="/blog/assets/index-DD-P0Kwn.css">
   </head>
   <body>

diff --git a/1BThKE_rw-CSCjpwukS7RWA6kfF7pUXifS6IeZbgnOmA.html b/1BThKE_rw-CSCjpwukS7RWA6kfF7pUXifS6IeZbgnOmA.html
@@ -58,7 +58,7 @@
       // navigations are counted without duplicates.
       gtag('config', 'G-W2C6FNCW86', { send_page_view: false });
     </script>
-    <script type="module" crossorigin src="/blog/assets/index-B9C_2L4X.js"></script>
+    <script type="module" crossorigin src="/blog/assets/index-DbyyQzb4.js"></script>
     <link rel="stylesheet" crossorigin href="/blog/assets/index-DD-P0Kwn.css">
   </head>
   <body>
